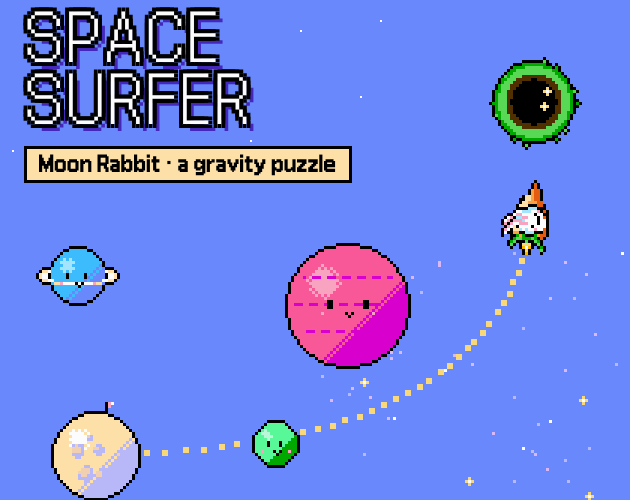
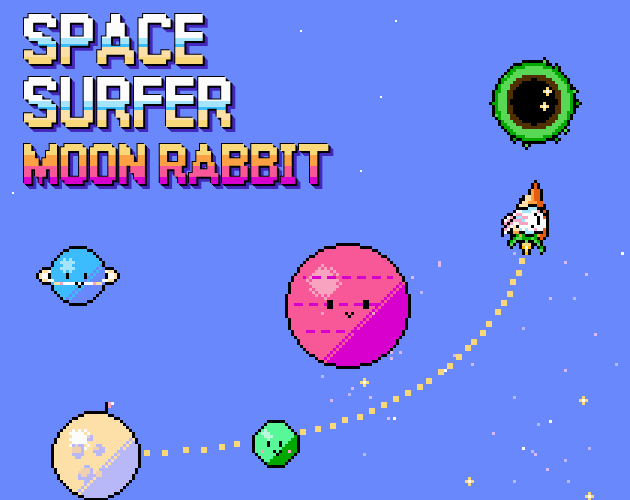
타이틀 로고 80년대 레트로 — 달토끼도 SPACE SURFER 만큼 크게
- SPACE / SURFER 크롬 띠, 달토끼·MOON RABBIT·月うさぎ·月兔 노을 띠 (토르 4편 로고 참고)
- 굵은 픽셀 글꼴(Galmuri11 Bold), 테두리·그림자는 drop-shadow 겹치기. 작은 부제 상자는 없앰
- NES 칸 넷을 :root 에 추가(--ice $31, --cyan $21, --rose $25, --magenta $14)
- itch 표지도 같은 로고로. PLAN §13.1

Claude-Session: https://claude.ai/code/session_01LDu2YDmkR2YxitU859gLjP

Changed region(s): [[0.0302, 0.0, 0.573, 0.39]]

diff --git a/src/ui/styles.css b/src/ui/styles.css
@@ -38,6 +38,10 @@
   --gray-light:#BCBCBC; /* $10 */
   --red:#F87858;        /* $26 */
   --navy:#0000BC;       /* $02 링크 */
+  --ice:#A4E4FC;        /* $31 로고 크롬 */
+  --cyan:#3CBCFC;       /* $21 로고 크롬 수평선 */
+  --rose:#F85898;       /* $25 로고 노을 */
+  --magenta:#D800CC;    /* $14 로고 노을 */
   /* 글꼴. 언어마다 픽셀 글꼴 → 그 언어의 시스템 글꼴 순서 */
   --pixel:'Galmuri11 Swingby','Fusion Pixel SC Swingby';
   --text:var(--pixel),'Apple SD Gothic Neo','Noto Sans KR','Malgun Gothic',system-ui,sans-serif;
@@ -234,14 +238,20 @@ img.px{image-rendering:pixelated;image-rendering:crisp-edges}
 /* 타이틀: 뒤에서 데모가 돈다. 판을 깔지 않는다 */
 #title{background:transparent;align-items:center;justify-content:center;gap:28px}
 #title .logo{display:flex;flex-direction:column;align-items:center;gap:12px}
-#title h1{margin:0;font:400 54px/1 var(--display);color:var(--white);letter-spacing:2px;
-  text-shadow:4px 0 0 var(--ink),-4px 0 0 var(--ink),0 4px 0 var(--ink),0 -4px 0 var(--ink),
-              4px 4px 0 var(--ink),-4px -4px 0 var(--ink),4px -4px 0 var(--ink),-4px 4px 0 var(--ink),
-              7px 7px 0 var(--deep)}
-#title h1 span{display:block;text-align:center}
-#title h1 span+span{margin-top:6px}
-#title .logo .ko{font:700 17px/1 var(--text);background:var(--paper);border:3px solid var(--ink);
-                 padding:6px 12px}
+/* 로고: 80년대 레트로(토르 4편 로고 참고). 글자는 띠 그라데이션, 외곽선·그림자는 drop-shadow 를 겹쳐서.
+   text-shadow 는 투명한 글자 속으로 비쳐 보여서 쓰지 않는다. 띠는 NES 칸만(§12.6) */
+#title h1{margin:0;font:700 55px/1 var(--pixel);letter-spacing:0;display:flex;flex-direction:column;align-items:center;
+  filter:drop-shadow(-1px -1px 0 var(--ink)) drop-shadow(2px 2px 0 var(--ink)) drop-shadow(3px 3px 0 var(--deep))}
+#title h1 span{display:inline-block;padding:0 2px;-webkit-background-clip:text;background-clip:text;
+  -webkit-text-fill-color:transparent;color:transparent}
+#title h1 span+span{margin-top:8px}
+#title h1 .chrome{background-image:linear-gradient(180deg,var(--white) 0 44%,var(--ice) 44% 54%,
+  var(--cyan) 54% 60%,var(--paper) 60% 78%,var(--yellow) 78% 100%)}
+#title h1 .moon{margin-top:12px;font-size:66px;background-image:linear-gradient(180deg,var(--yellow) 0 26%,
+  var(--orange) 26% 50%,var(--rose) 50% 74%,var(--magenta) 74% 100%)}
+:root:lang(en) #title h1 .moon{font-size:44px}
+:root:lang(ja) #title h1 .moon{font-size:55px}
+:root:lang(zh) #title h1 .chrome{font-family:'Galmuri11 Swingby'}
 #title .bar{flex-direction:column;align-items:stretch;width:min(288px,100%);gap:14px}
 #title .bar .btn{min-height:52px;font-size:18px}
 #title .pair{display:grid;grid-template-columns:1fr 1fr;gap:14px}

diff --git a/src/ui/screens.ts b/src/ui/screens.ts
@@ -100,7 +100,7 @@ export class Screens {
     this.hideAll();
     this.titleEl.innerHTML = `
       <div class="spacer"></div>
-      <div class="logo"><h1><span>SPACE</span><span>SURFER</span></h1>${t('title.sub') ? `<span class="ko">${t('title.sub')}</span>` : ''}</div>
+      <div class="logo"><h1><span class="chrome">SPACE</span><span class="chrome">SURFER</span><span class="moon">${t('title.sub')}</span></h1></div>
       <div class="bar">
         <button class="btn primary" data-a="start" type="button">${t('title.stage')}</button>
         ${this.d.infinityOpen()
